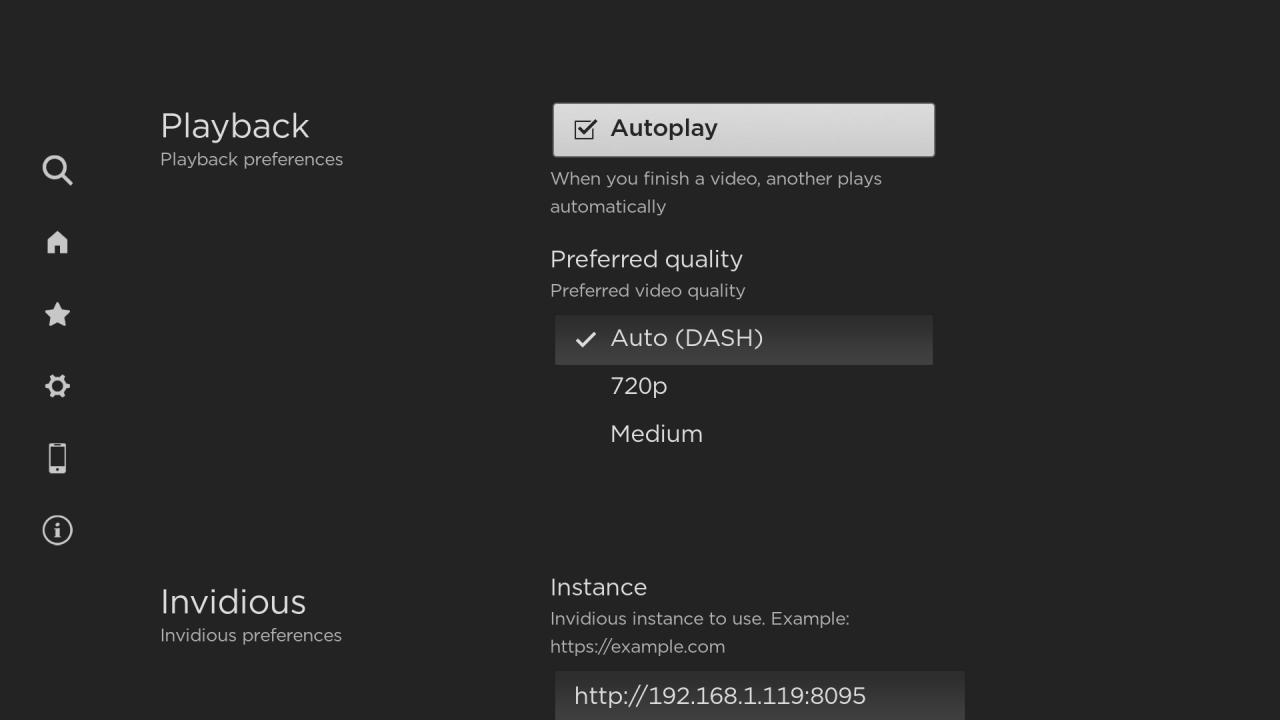
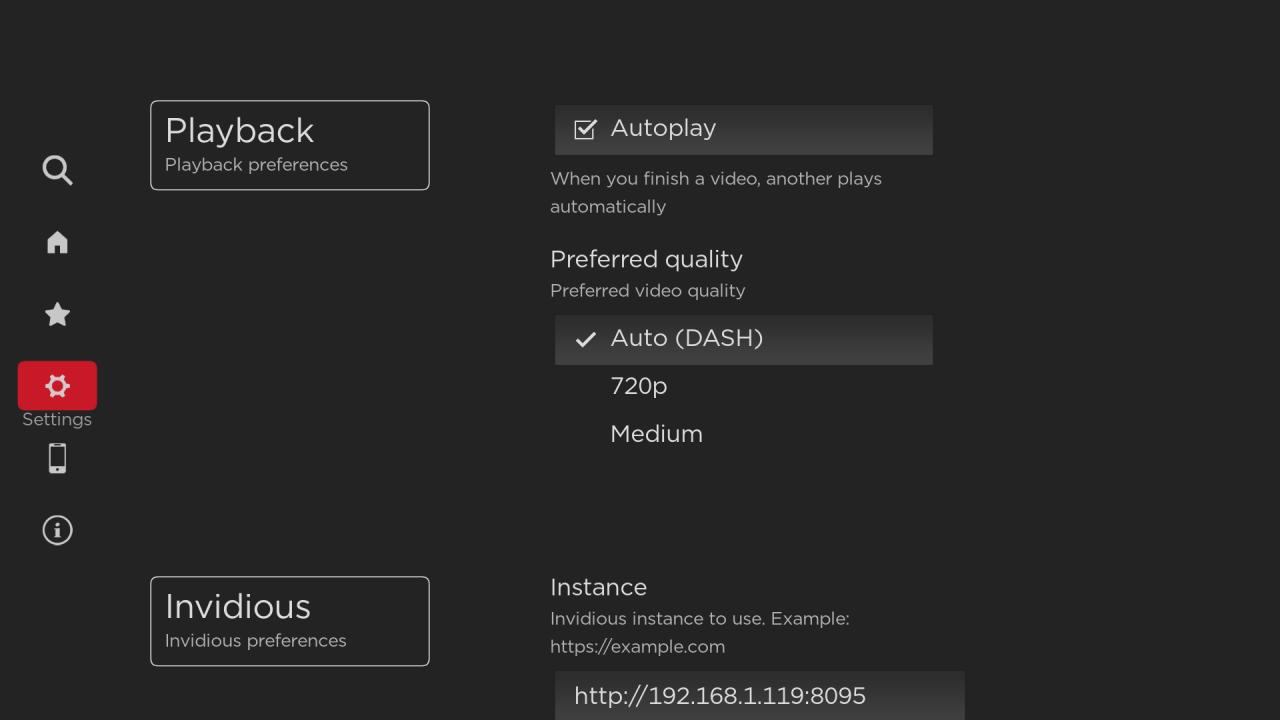
Update info and screenshots

diff --git a/README.md b/README.md
@@ -42,16 +42,16 @@ More under [Screenshots](./docs/screenshots/README.md)
 - 🕵 No Tracking
 - 🛡 Privacy driven (uses Invidious backend)
 - ⚔ SponsorBlock integration (skips undesirable sections in videos)
-- 📱 Browse, search, and cast from phone using the web app
+- 📱 Browse, search, and cast from phone using the YouTube app or the browser
 - 🔮 Picture-in-picture mode
 - ⚡ Fast! [Check out how we compare with the official YouTube app](https://youtu.be/qmSvA-QQW20)
 
 ### Cast from phone
 
-1. Open "Web app" tab in Playlet
-1. Scan QR Code with Phone
-1. Browse or search videos
-1. Click the video and choose the "Play on TV" option
+- Open "Remote" tab in Playlet
+  - Scan QR Code with Phone, and use the browser; OR
+  - Use the YouTube app to connect using the same Wi-Fi; OR
+  - Use the `Link with TV code` to connect
 
 ### Picture-in-picture
 
@@ -63,7 +63,7 @@ More under [Screenshots](./docs/screenshots/README.md)
 
 1. Open settings in Playlet
 1. Select Invidious -> Instance
-1. Set a custom instance, or choose a public one hosted by volunteers (from https://api.invidious.io/)
+1. Set a custom instance, or choose a public one hosted by volunteers (from [api.invidious.io](https://api.invidious.io/))
 1. Optionally, Select `Test instance` to make sure it works
 1. Hit save
 

diff --git a/docs/screenshots/README.md b/docs/screenshots/README.md
@@ -18,9 +18,9 @@
 | --------------------------- | ------------------------------------------------ | --------------------------------------------- |
 | ![Settings](./settings.jpg) | ![Invidious instances](./invidious-settings.jpg) | ![Invidious testing](./invidious-testing.jpg) |
 
-| Link to web app                     | App info                    |
-| ----------------------------------- | --------------------------- |
-| ![Link to web app](./webapp-qr.jpg) | ![App info](./app-info.jpg) |
+| Remote                  | App info                    |
+| ----------------------- | --------------------------- |
+| ![Remote](./remote.jpg) | ![App info](./app-info.jpg) |
 
 ## Playlet web app
 
